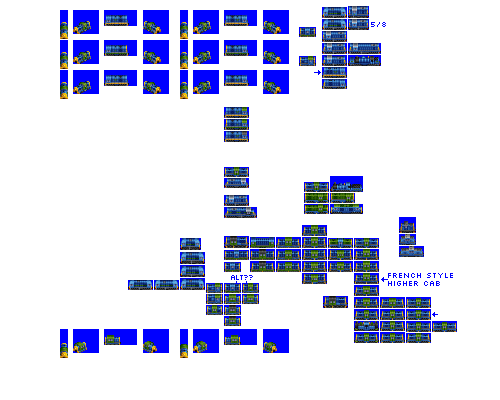
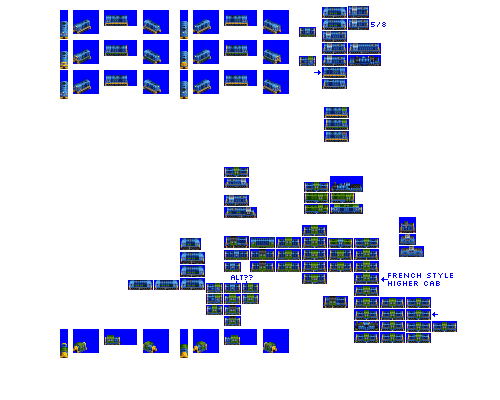
Change: Solano sprites complete

diff --git a/src/vehicles/solano.py b/src/vehicles/solano.py
@@ -19,7 +19,7 @@ def main(roster_id):
         extended_vehicle_life=True,  # extended vehicle life for all this generation of NG eh
         # note that livery names are metadata only and can repeat for different spriterows
         additional_liveries=["SWOOSH", "INDUSTRIAL_YELLOW"],
-        sprites_complete=False,
+        sprites_complete=True,
     )
 
     consist.add_unit(
@@ -30,12 +30,12 @@ def main(roster_id):
         spriterow_num=0,
     )
 
-    consist.description = """"""
+    consist.description = """Let a bit of sun in, I say."""
     # https://en.wikipedia.org/wiki/New_Zealand_DE_class_locomotive, also NZ Di class
     # nah it's CP_Class_9020 now, and rename from Silverfern
     # see also https://trainspo.com/photo/98083/
     consist.foamer_facts = (
-        """"""
+        """Alstom AD 12 B export locomotives"""
     )
 
     return consist
